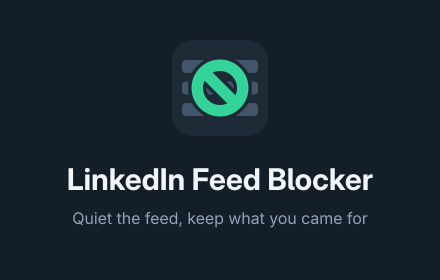
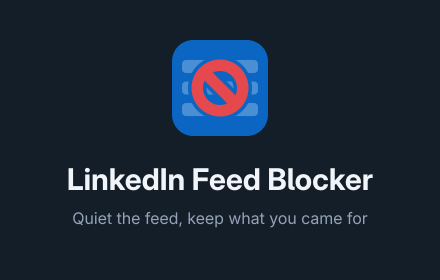
feat: recolour the mark to LinkedIn's palette with a red prohibition ring
The graphite mark read as generic: nothing about it said which site the
extension acts on, which is the one job an extensions-page favicon has. Move
the tile to LinkedIn's brand blue (#0A66C2) and the feed cards to #4A8FD4 so
the target is legible at a glance, and make the prohibition ring red
(#E5484D) for the convention the shape already carries.

Both choices trade something away, and both are deliberate:

- A rounded blue tile sits close to LinkedIn's own app icon, and both stores
  restrict listings that use another company's branding in a way that
  suggests affiliation. That is an accepted rejection vector, not an
  oversight; a755e41 is the fallback mark if a reviewer calls it.
- Red and the tile blue are close in relative luminance, so the ring now
  separates on hue more than on lightness and the slash is weaker at 16px
  than the green it replaces. It still reads on light and dark backgrounds.

The cards keep their job: at 1.67:1 against the new tile they band slightly
less than the outgoing 1.93:1, so they still fall away at 16px and leave the
ring alone. Record both tradeoffs in AGENTS.md so neither gets tidied away by
someone reading the old rule.

Changed region(s): [[0.3841, 0.1429, 0.6205, 0.4857]]

diff --git a/AGENTS.md b/AGENTS.md
@@ -218,14 +218,26 @@ or packaging changes, run at least `pnpm typecheck`, `pnpm test:coverage`,
 
 ## Artwork
 
-- The mark must not reproduce LinkedIn's logo, wordmark, rounded-square tile, or
-  their blue. Naming the product is nominative use and is fine; wearing their
-  branding suggests affiliation and is a rejection vector at both stores.
+- The mark must not reproduce LinkedIn's logo or wordmark. It does use their
+  brand blue (`#0A66C2`) on a rounded-square tile, which is a deliberate owner
+  decision taken for recognizability at favicon size, overriding the earlier
+  rule against it. Understand the tradeoff before touching it: a rounded blue
+  tile is close to LinkedIn's own app icon, and both stores restrict listings
+  that use another company's branding in a way that suggests affiliation. This
+  is a known and accepted rejection vector, not an oversight to be tidied away.
+  If a reviewer rejects on branding, the graphite mark in `a755e41` is the
+  fallback, not a new design. Naming the product stays nominative use.
 - Judge every icon change at 16px, not at 1024. That is the size the extensions
   page favicon uses, and it is where a mark with too much in it turns to mud.
   The feed cards behind the prohibition sign are deliberately low-contrast so
   they fall away at 16px and leave a legible ring and slash.
-- The mark must work on light and dark backgrounds, which is what the graphite
+- The prohibition mark is red (`#E5484D`), an owner decision for the convention
+  the shape already carries. It costs legibility: red and the tile blue sit at
+  close relative luminance, so the ring separates on hue more than on lightness
+  and the slash is weaker at 16px than the green (`#34D399`) it replaced. If a
+  future change needs the ring to carry more of the mark, raising its lightness
+  is the lever, not adding detail.
+- The mark must work on light and dark backgrounds, which is what the saturated
   tile is for.
 - Replacing a Chrome Web Store listing image is a manual dashboard paste and
   puts the item back through review. Only the AMO listing icon is pushed
